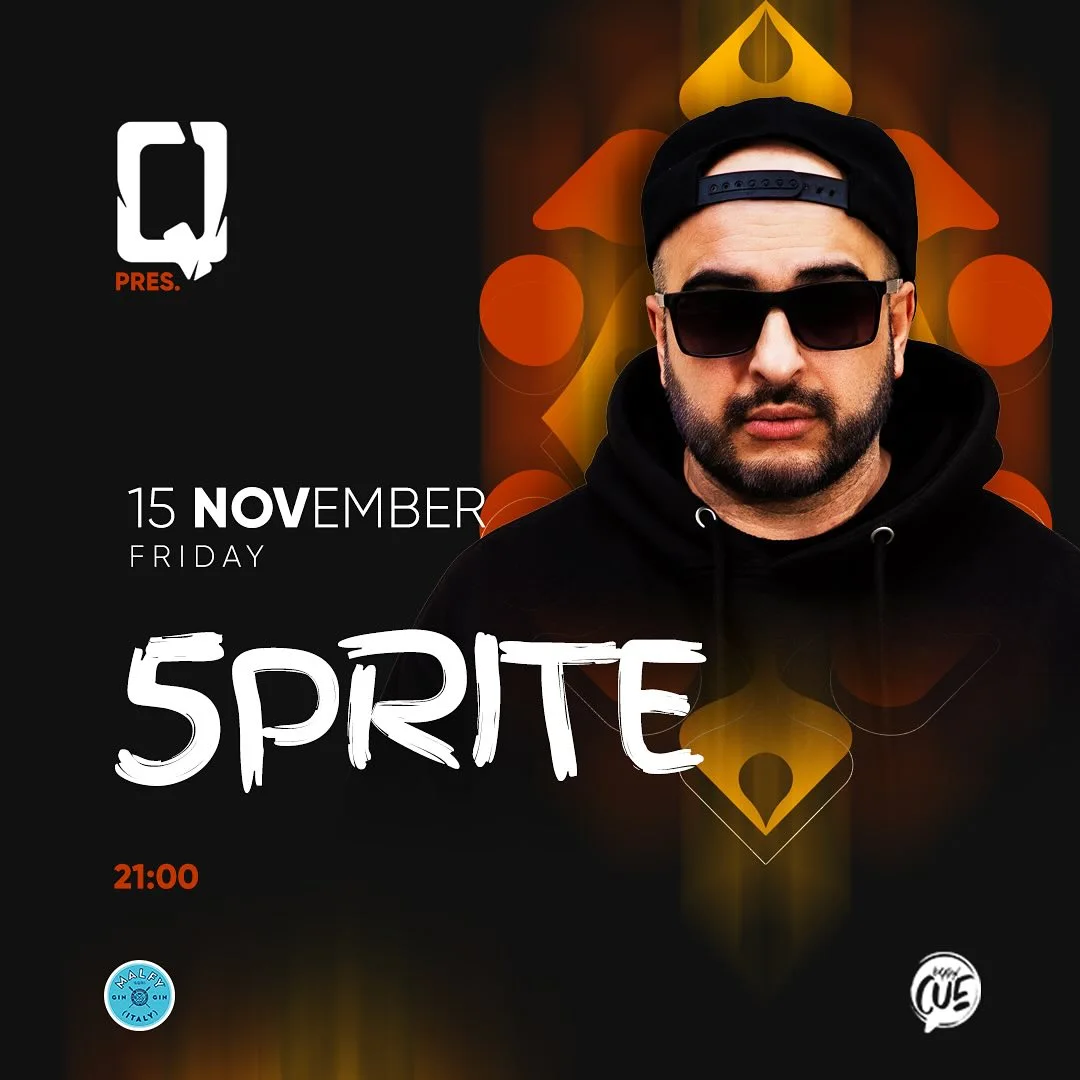
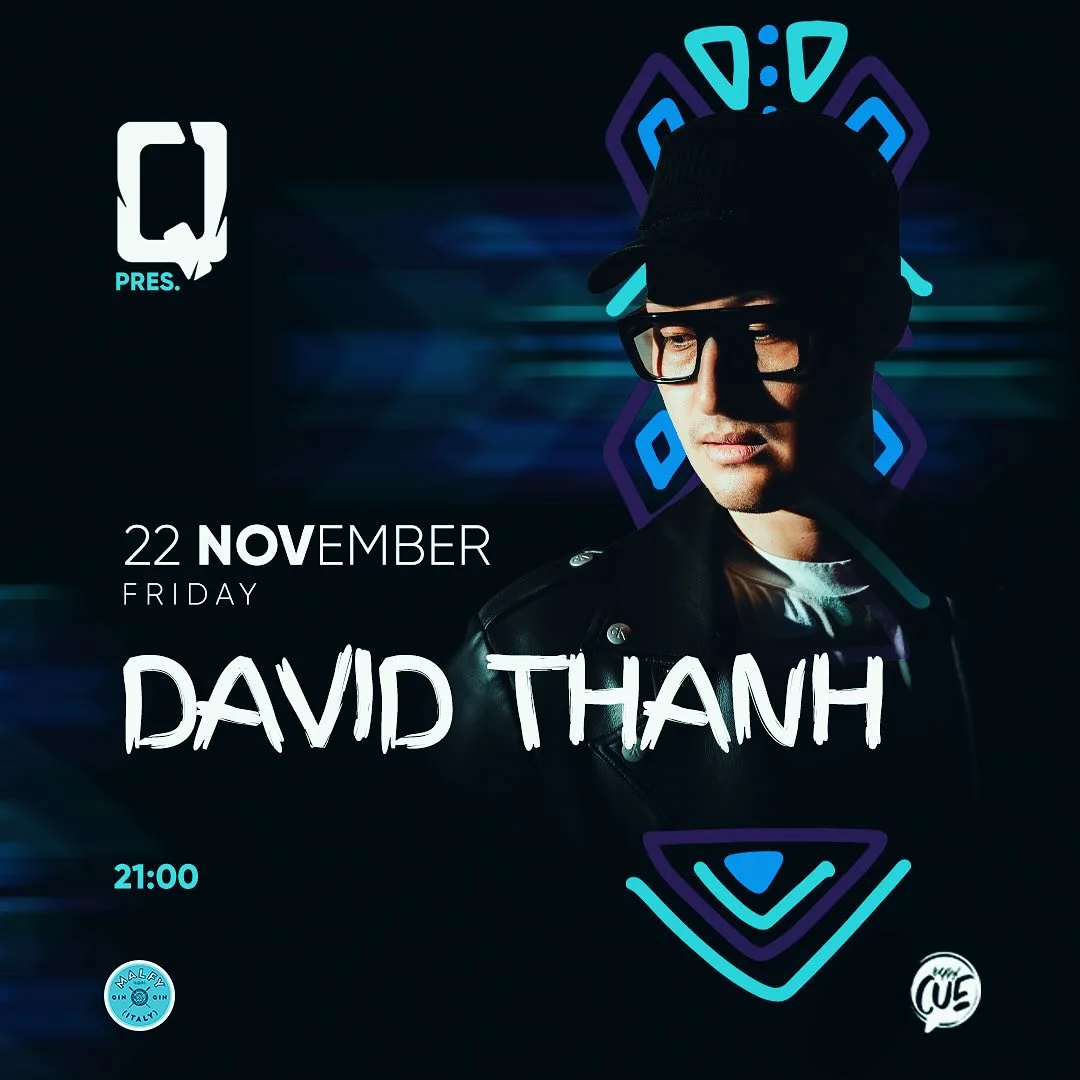
V

diff --git a/app/components/Events.tsx b/app/components/Events.tsx
@@ -14,31 +14,31 @@ export default async function Events(): Promise<JSX.Element> {
   const events = [
     {
       image: event1,
-      date: `12 ${t("events.month-2")}`,
+      date: `19 ${t("events.month-2")}`,
       day: t("events.day-1"),
       hour: "21:00",
       name: "DZHAKOV",
     },
     {
       image: event2,
-      date: `14 ${t("events.month-2")}`,
+      date: `21 ${t("events.month-2")}`,
       day: t("events.day-2"),
       hour: "21:00",
       name: "HOT JAM",
     },
     {
       image: event3,
-      date: `15 ${t("events.month-2")}`,
+      date: `22 ${t("events.month-2")}`,
       day: t("events.day-3"),
       hour: "21:00",
-      name: "5PRITE",
+      name: "DAVID THANH",
     },
     {
       image: event4,
-      date: `16 ${t("events.month-2")}`,
+      date: `23 ${t("events.month-2")}`,
       day: t("events.day-4"),
       hour: "21:00",
-      name: "MILEN",
+      name: "CHOIZZ",
     },
     // {
     //   image: event5,

diff --git a/app/components/Hero.tsx b/app/components/Hero.tsx
@@ -18,11 +18,11 @@ import { useTheme } from "../utils/themeProvider";
 const CountdownTimer = dynamic(() => import("./Countdown"), { ssr: false });
 
 const eventDates = [
-  new Date("2024-11-12T21:00:00"),
-  new Date("2024-11-14T21:00:00"),
-  new Date("2024-11-15T21:00:00"),
-  new Date("2024-11-16T21:00:00"),
-  new Date("2024-11-19T21:00:00"),
+  new Date("2024-11-21T21:00:00"),
+  new Date("2024-11-22T21:00:00"),
+  new Date("2024-11-23T21:00:00"),
+  new Date("2024-11-26T21:00:00"),
+  new Date("2024-11-28T21:00:00"),
 ];
 
 export function Hero(): JSX.Element {
